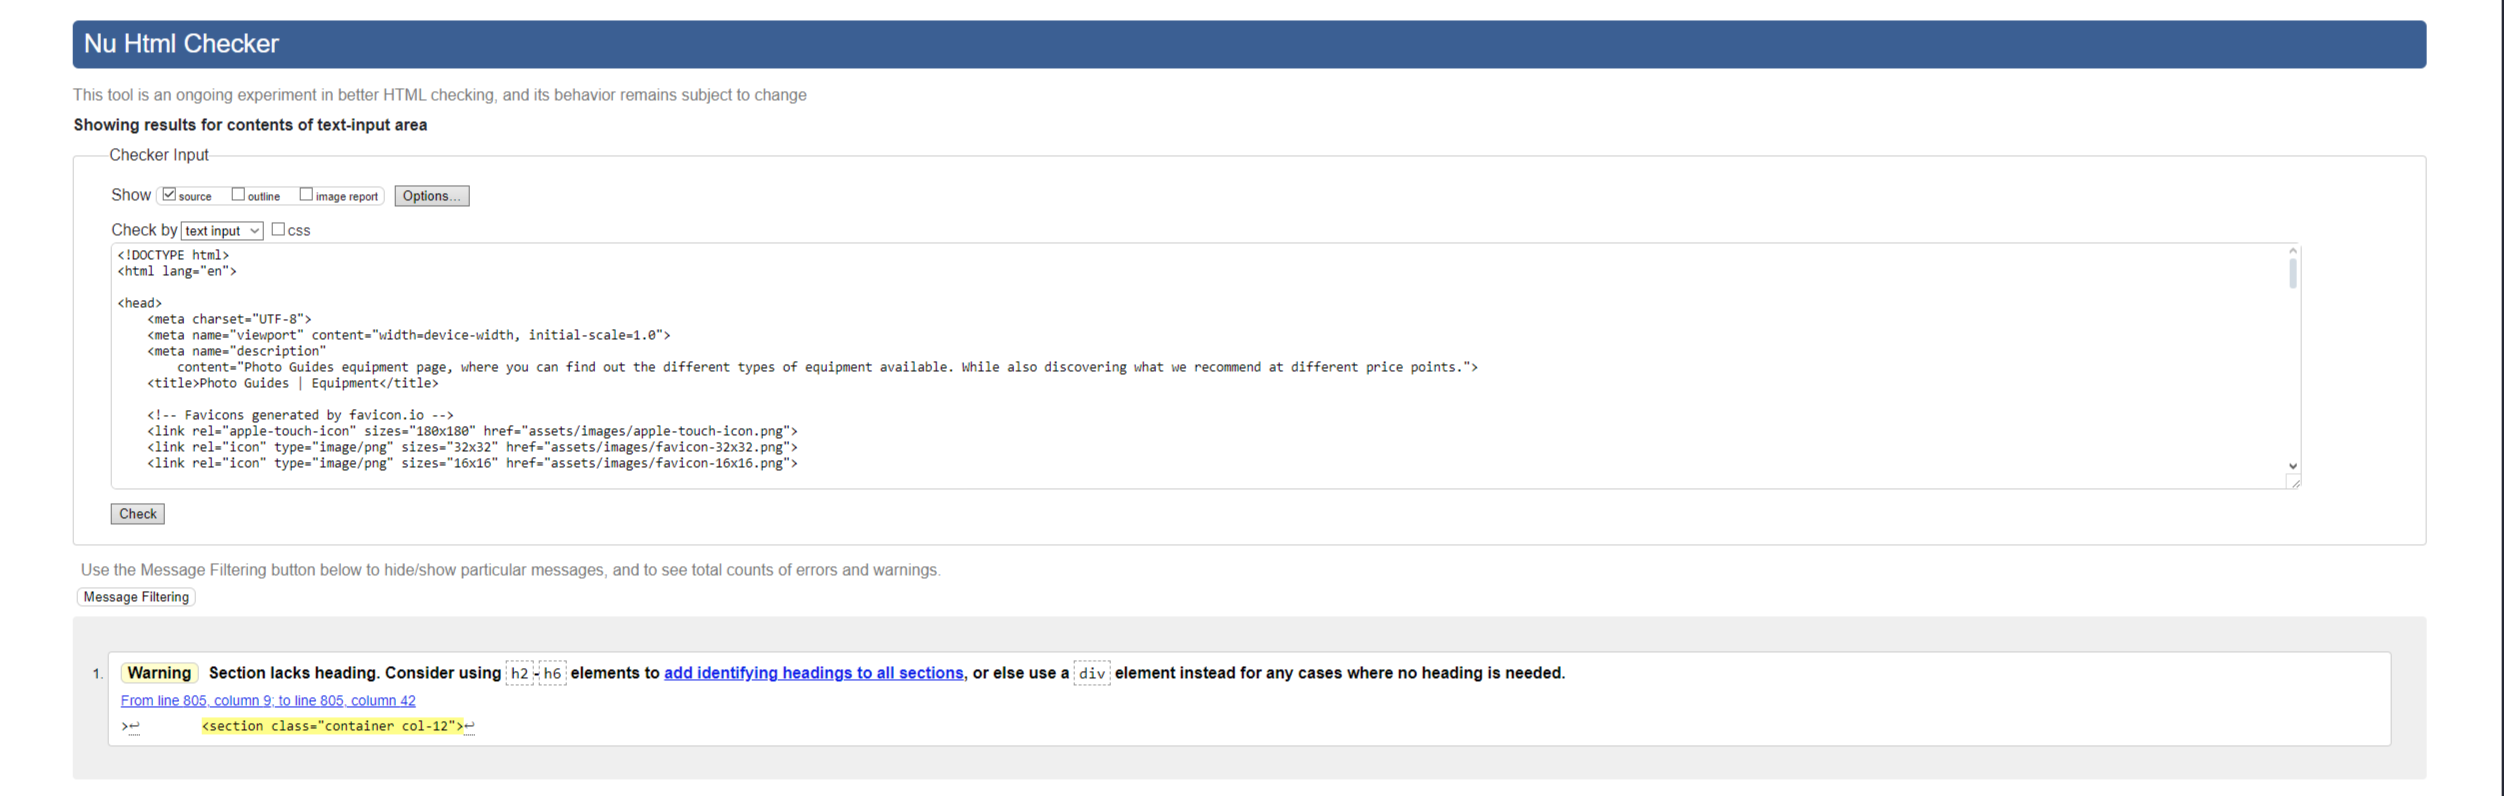
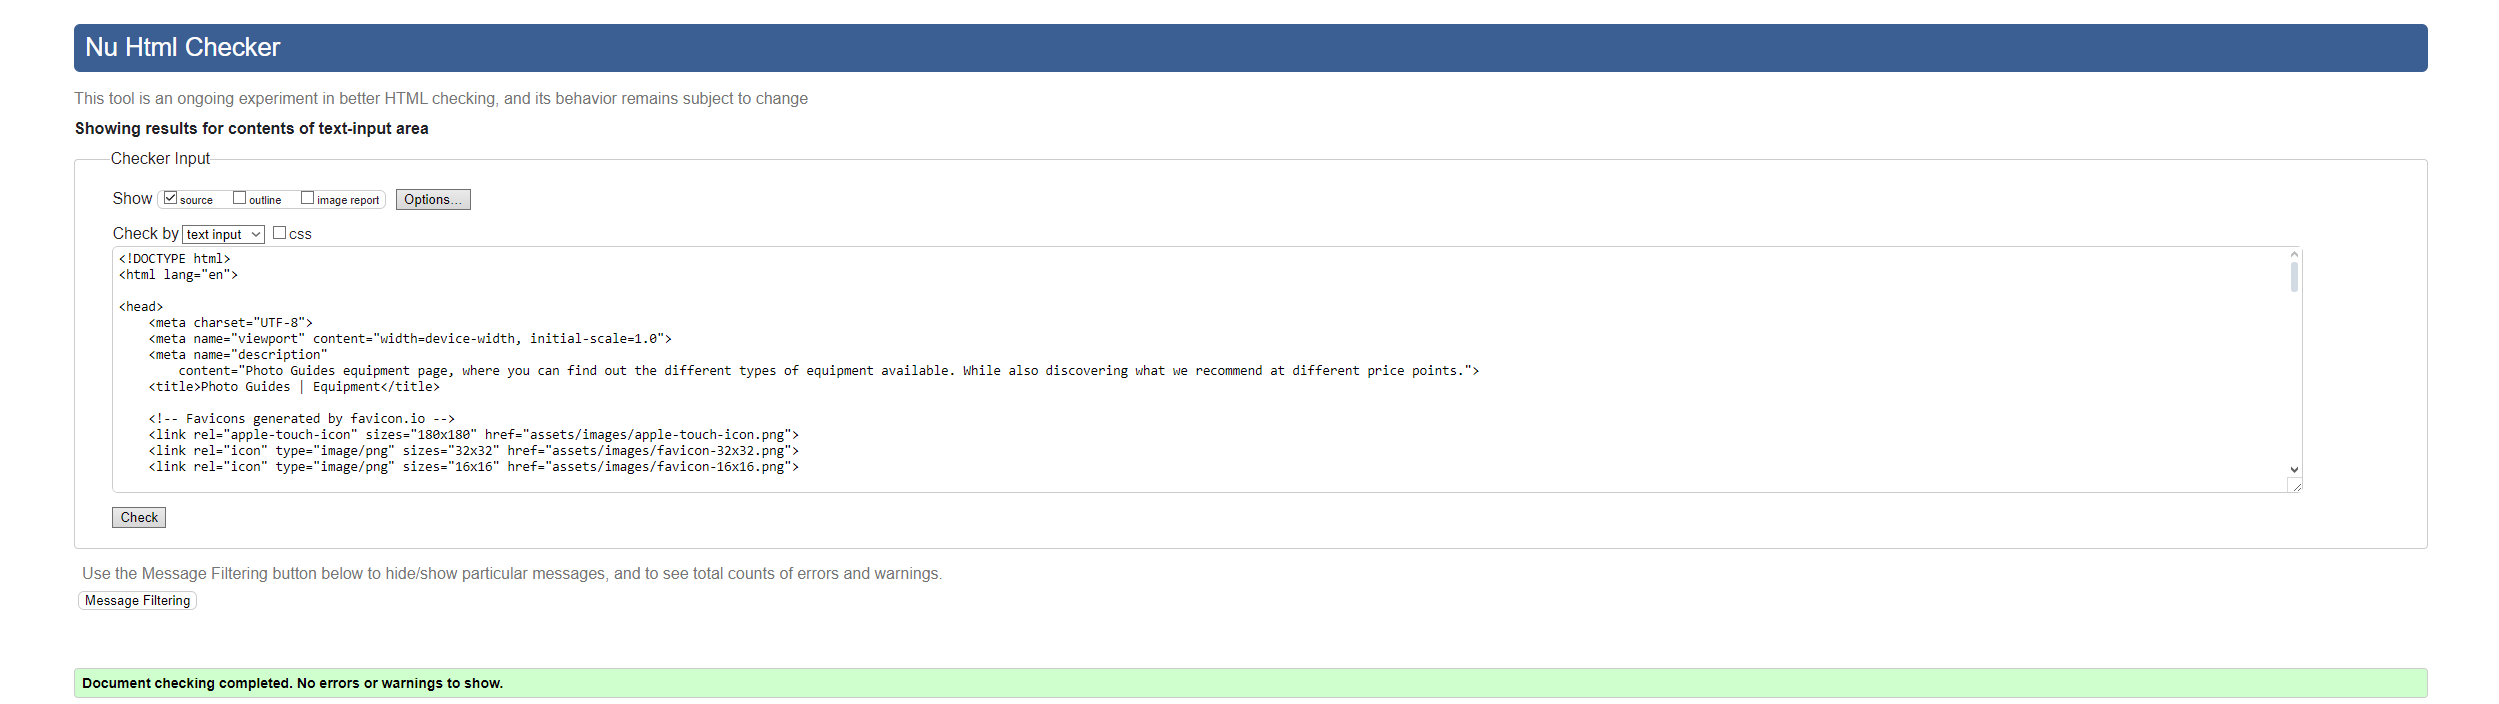
Update readme with latest validator testing screenshots

Changed region(s): [[0.0312, 0.0, 1.0, 1.0], [0.0312, 0.8125, 0.9676, 1.0]]

diff --git a/README.md b/README.md
@@ -330,13 +330,12 @@ The website has been tested; including internal (buttons and navbar) & external 
   - Put CSS through Autoprefixer to ensure it works on all browsers
   - No errors were found when passing through the official Jigsaw validator, see links below.
   
-   ![(Jigsaw) validator 1](assets/readmeimgs/Validator%20Testing/CSS_1.PNG)
-   ![(Jigsaw) validator 2](assets/readmeimgs/Validator%20Testing/CSS_2.PNG)
+   ![(Jigsaw) validator 1](assets/readmeimgs/Validator%20Testing/CSS.PNG)
 
 ### Unfixed Bugs
 
 - Varying performance score on Lighthouse Mobile due to LCP and Render Blocking
- - The scores cary from in the 60s to the 90s
+  - The scores cary from in the 60s to the 90s
 
 - Please note the Lighthouse desktop performance scores are regularly above 90.
 
